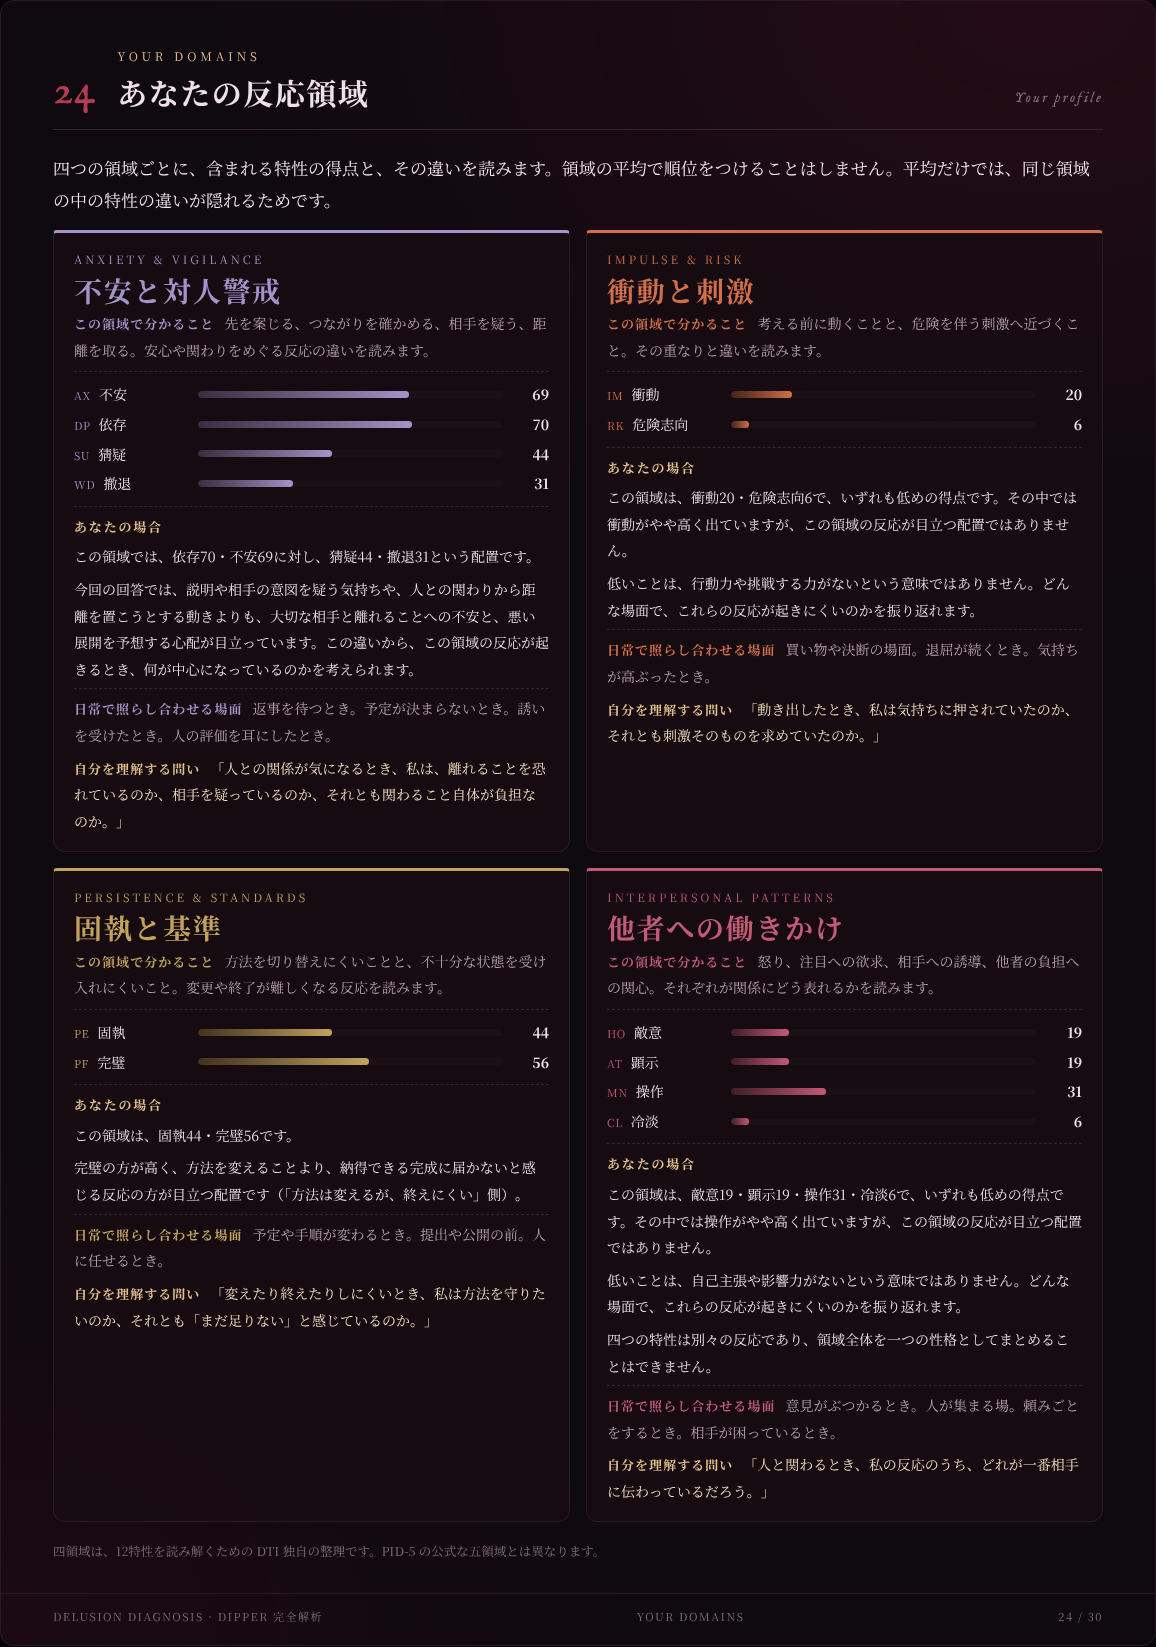
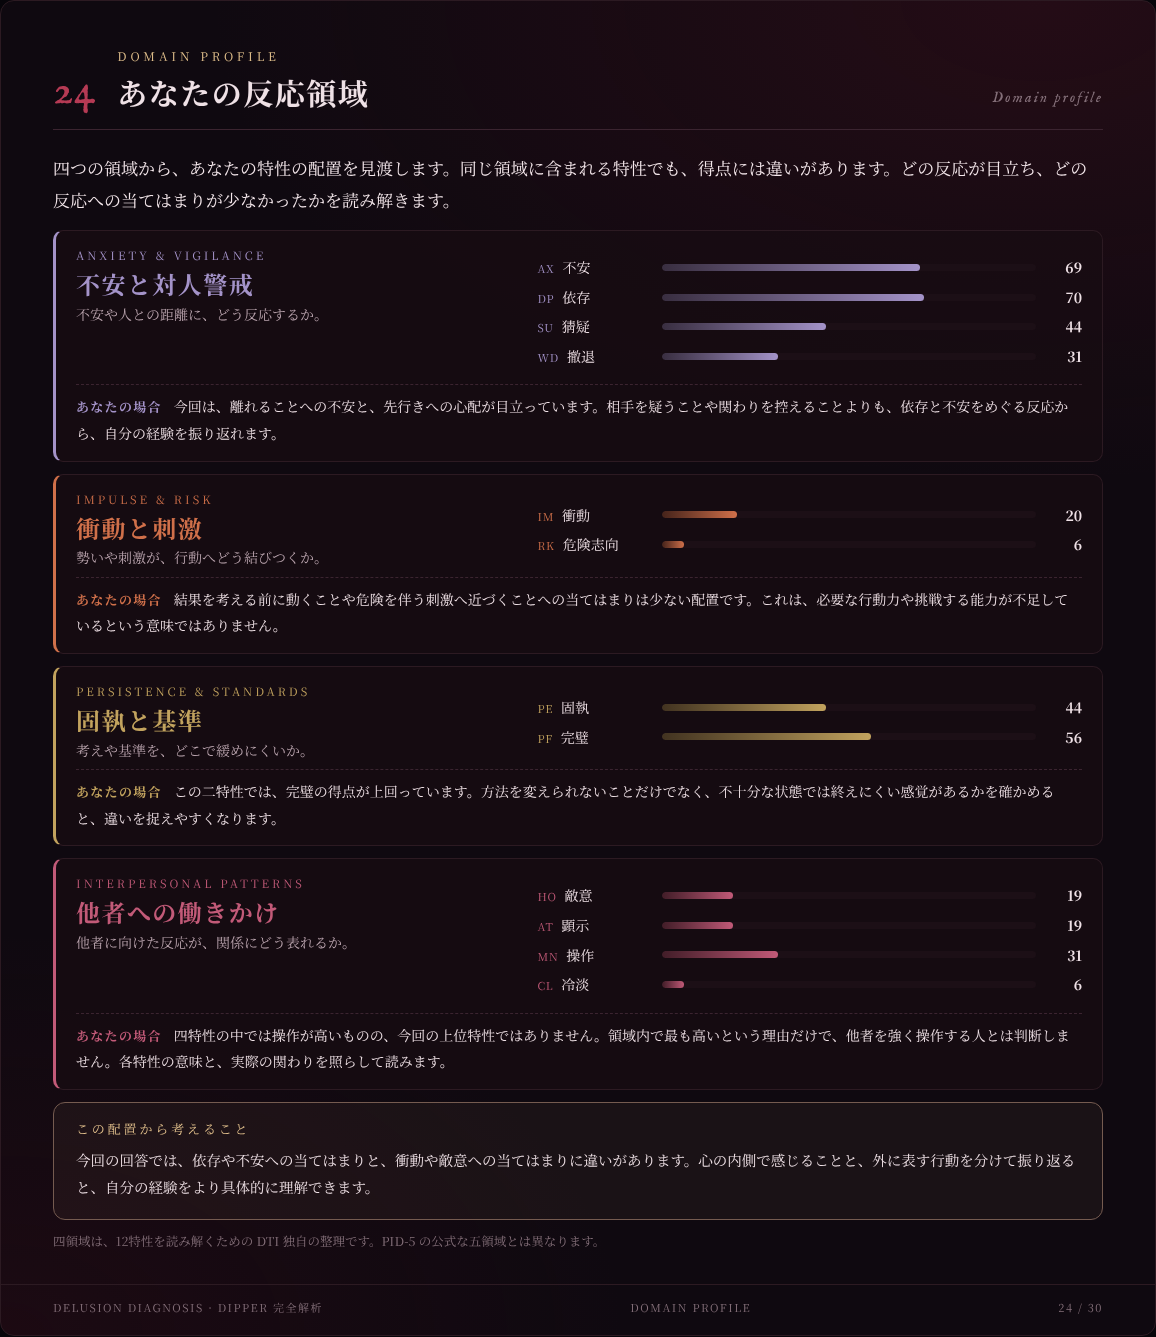
邪眼完全解析 DIPPER：「あなたの反応領域」を横長カード4段（領域・得点バー・あなたの場合）と「この配置から考えること」に。「弱点をどう活かすか」を「自分の影をどう受け止めるか」に置き換え
Claude-Session: https://claude.ai/code/session_01G98Q4k59pxprHjFdWRszS7

diff --git a/jagan/complete/complete.css b/jagan/complete/complete.css
@@ -248,3 +248,20 @@ body.dp { margin: 0; background: var(--bg); color: var(--fg); font-family: 'Noto
 .dp-rdtab { width: 100%; border-collapse: collapse; font-size: 14px; } .dp-rdtab th { text-align: left; font-weight: 400; font-size: 12px; letter-spacing: .14em; color: var(--gold); padding: 6px 8px; border-bottom: 1px solid var(--line2); }
 .dp-rdtab td { padding: 9px 8px; border-bottom: 1px solid var(--line); } .dp-rdtab td:first-child { font-weight: 700; white-space: nowrap; }
 @media (max-width: 760px) { .dp-rd4 { grid-template-columns: 1fr; } .dp-rdtab td:nth-child(2) { white-space: normal; } }
+/* あなたの反応領域（横長カード4段） */
+.dp-rdrow { display: grid; grid-template-columns: minmax(0, 1fr) minmax(0, 1.25fr); gap: 6px 26px; border: 1px solid var(--line); border-left: 3px solid var(--c); border-radius: 10px; padding: 14px 20px; margin-bottom: 12px; background: rgba(24,12,18,.72); }
+.dp-rdrow .dp-rdname { font-size: 24px; } .dp-rdl p { margin: 0; font-size: 14px; color: var(--sub); }
+.dp-rdrow .dp-rdbars { border: 0; margin: 0; align-self: center; }
+.dp-rdyou { grid-column: 1 / -1; border-top: 1px dashed var(--line2); padding-top: 8px; font-size: 14px; }
+.dp-rdyou b { color: var(--c); font-size: 13px; letter-spacing: .1em; margin-right: 12px; }
+/* 自分の影をどう受け止めるか */
+.dp-ac3 { display: grid; grid-template-columns: repeat(3, minmax(0, 1fr)); gap: 12px; margin: 6px 0 14px; }
+.dp-acs { border: 1px solid var(--line2); border-top: 3px solid var(--rose); border-radius: 4px 4px 10px 10px; padding: 12px 16px; background: rgba(24,12,18,.72); }
+.dp-acs .dp-rk { font-size: 16px; margin-right: 8px; } .dp-acs b { font-size: 20px; } .dp-acs small { display: block; color: var(--gold); font-size: 12.5px; letter-spacing: .1em; margin: 2px 0 6px; }
+.dp-acs p, .dp-acb p { margin: 0 0 6px; font-size: 14px; }
+.dp-ac2 { display: grid; grid-template-columns: 1fr 1fr; gap: 12px; margin-bottom: 12px; }
+.dp-acb { border: 1px solid var(--line2); border-radius: 10px; padding: 14px 18px; background: rgba(18,9,14,.6); }
+.dp-acb.left { border-left: 3px solid var(--c); background: color-mix(in srgb, var(--c) 7%, rgba(18,9,14,.6)); }
+.dp-ac2.small .dp-acb { padding: 10px 16px; } .dp-ac2.small p { color: var(--sub); }
+.dp-acclose { margin-top: 16px; text-align: center; font-size: 18px; letter-spacing: .06em; padding: 14px 8px; border-top: 1px solid var(--line2); border-bottom: 1px solid var(--line2); color: #f2dfc0; }
+@media (max-width: 760px) { .dp-rdrow, .dp-ac3, .dp-ac2 { grid-template-columns: 1fr; } }
